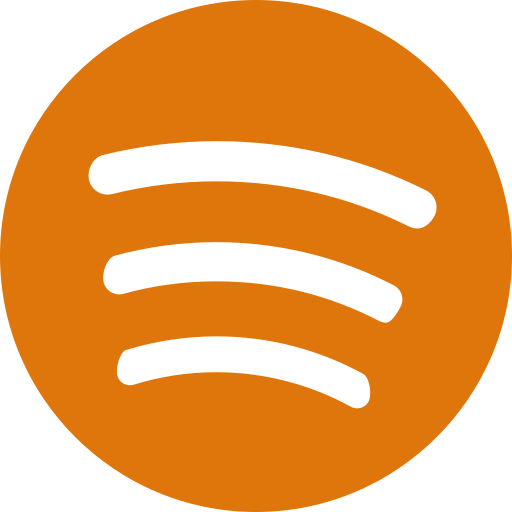
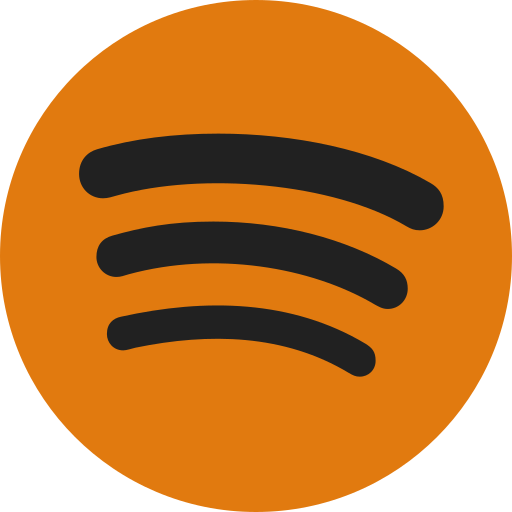
Adicionei as imagens no footer e no header

Changed region(s): [[0.1875, 0.4062, 0.8125, 0.8125], [0.1562, 0.25, 0.875, 0.4688]]

diff --git a/modulo3/projeto-labefy/src/App.js b/modulo3/projeto-labefy/src/App.js
@@ -1,14 +1,24 @@
 
 import React from 'react';
 import LogoSpotify from './Components/Images/spotify.png';
+import LogoInstagram from './Components/Images/instagram.png';
+import LogoFacebook from './Components/Images/facebook.png';
+import LogoTwitter from './Components/Images/twitter.png';
 import styled from 'styled-components';
 
-const logoHeader = styled.img`
-  width: 5%;
-  padding-top: 1%;
-  margin: 0;
+const LogoHeader = styled.img`
+  width: 5vw;
+  margin: 10px;
+  padding: 10px;
+  display: grid;
 `
 
+const LogoFooter = styled.img`
+  width: 2vw;
+  display: flex;
+  flex-wrap: nowrap;
+  justify-content: center;
+`
 const Headers = styled.header`
   color: black;
   font-size: 30px;
@@ -16,8 +26,8 @@ const Headers = styled.header`
   padding-left: 5%;
   margin: 0;
   background-color: #C4C4C4;
-  color: whitesmoke;
-`;
+  font-family: "Lucida Console";
+ `;
 
 const Footers = styled.header`
   color: black;
@@ -33,11 +43,13 @@ function App (){
   return(
     <div>
       <Headers>
-        <logoHeader src={LogoSpotify} alt='logo spotify' />
+        <LogoHeader src={LogoSpotify} alt='logo spotify'></LogoHeader>
         <strong>Labefy</strong>
       </Headers>
       <Footers>
-        <p></p>
+        <LogoFooter src={LogoInstagram} alt='logo instagram'></LogoFooter>
+        <LogoFooter src={LogoFacebook} alt='logo instagram'></LogoFooter>
+        <LogoFooter src={LogoTwitter} alt='logo instagram'></LogoFooter>
       </Footers>
     </div>
   )

diff --git a/modulo3/projeto-labefy/src/index.js b/modulo3/projeto-labefy/src/index.js
@@ -1,8 +1,7 @@
 import React from 'react';
 import ReactDOM from 'react-dom';
-import './index.css';
 import App from './App';
-import reportWebVitals from './reportWebVitals';
+
 
 ReactDOM.render(
   <React.StrictMode>
@@ -11,7 +10,3 @@ ReactDOM.render(
   document.getElementById('root')
 );
 
-// If you want to start measuring performance in your app, pass a function
-// to log results (for example: reportWebVitals(console.log))
-// or send to an analytics endpoint. Learn more: https://bit.ly/CRA-vitals
-reportWebVitals();
